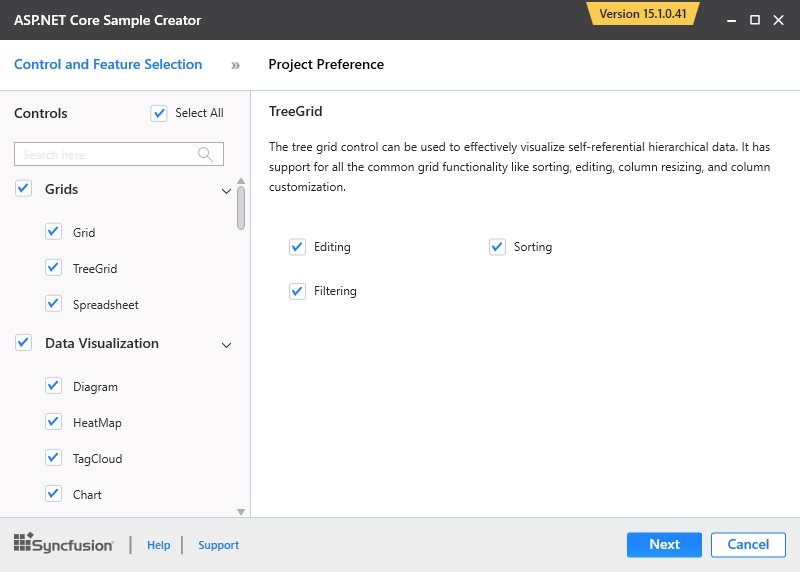
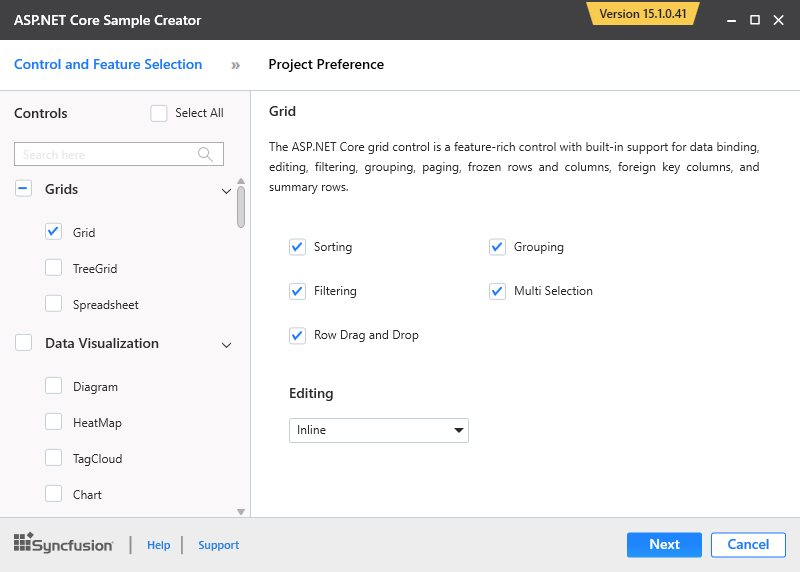
EXT-2544 ES version details and screenshot updated.

diff --git a/Extension/ASPNETCore-Extension/Project-Migration.md b/Extension/ASPNETCore-Extension/Project-Migration.md
@@ -11,7 +11,7 @@ documentation: ug
 
 Syncfusion Project Migration is a Visual Studio add-in that allows you to migrate the existing Syncfusion ASP.NET Core Web Application from one Essential Studio version to another version.
 
-I> The Syncfusion ASP.NE Core Web Application Project Migration utility is available from v15.2.0.x. 
+I> The Syncfusion ASP.NET Core Web Application Project Migration utility is available from v15.2.0.x.
 
 ## Migrate Syncfusion Project 
 

diff --git a/Extension/ASPNETCore-Extension/Sample-Creator.md b/Extension/ASPNETCore-Extension/Sample-Creator.md
@@ -11,6 +11,8 @@ documentation: ug
 
 Sample Creator is the utility that allows you to create Syncfusion ASP.NET Core Projects along with the samples based on Controls and Features selection.
 
+I> The Syncfusion ASP.NET Core Sample Creator utility is available from v15.2.0.x.
+
 ## Create Syncfusion ASP.NET Core Web Application from Sample Creator
 
 The following steps help you to create the Syncfusion ASP.NET Core Web Application via the Sample Creator utility.

diff --git a/Extension/ASPNETCore-Extension/Syncfusion-Project-Templates.md b/Extension/ASPNETCore-Extension/Syncfusion-Project-Templates.md
@@ -11,7 +11,7 @@ documentation: ug
 
 Syncfusion provides the **Visual** **Studio** **Project** **Templates** for the Syncfusion ASP.NET Core platform to create Syncfusion ASP.NET Core Web Application.  
 
-I> The Syncfusion ASP.NET COre templates are available from v15.2.0.x.  
+I> The Syncfusion ASP.NET Core project templates are available from v15.2.0.x.  
 
 ## Create Syncfusion ASP.NET Core Application
 
